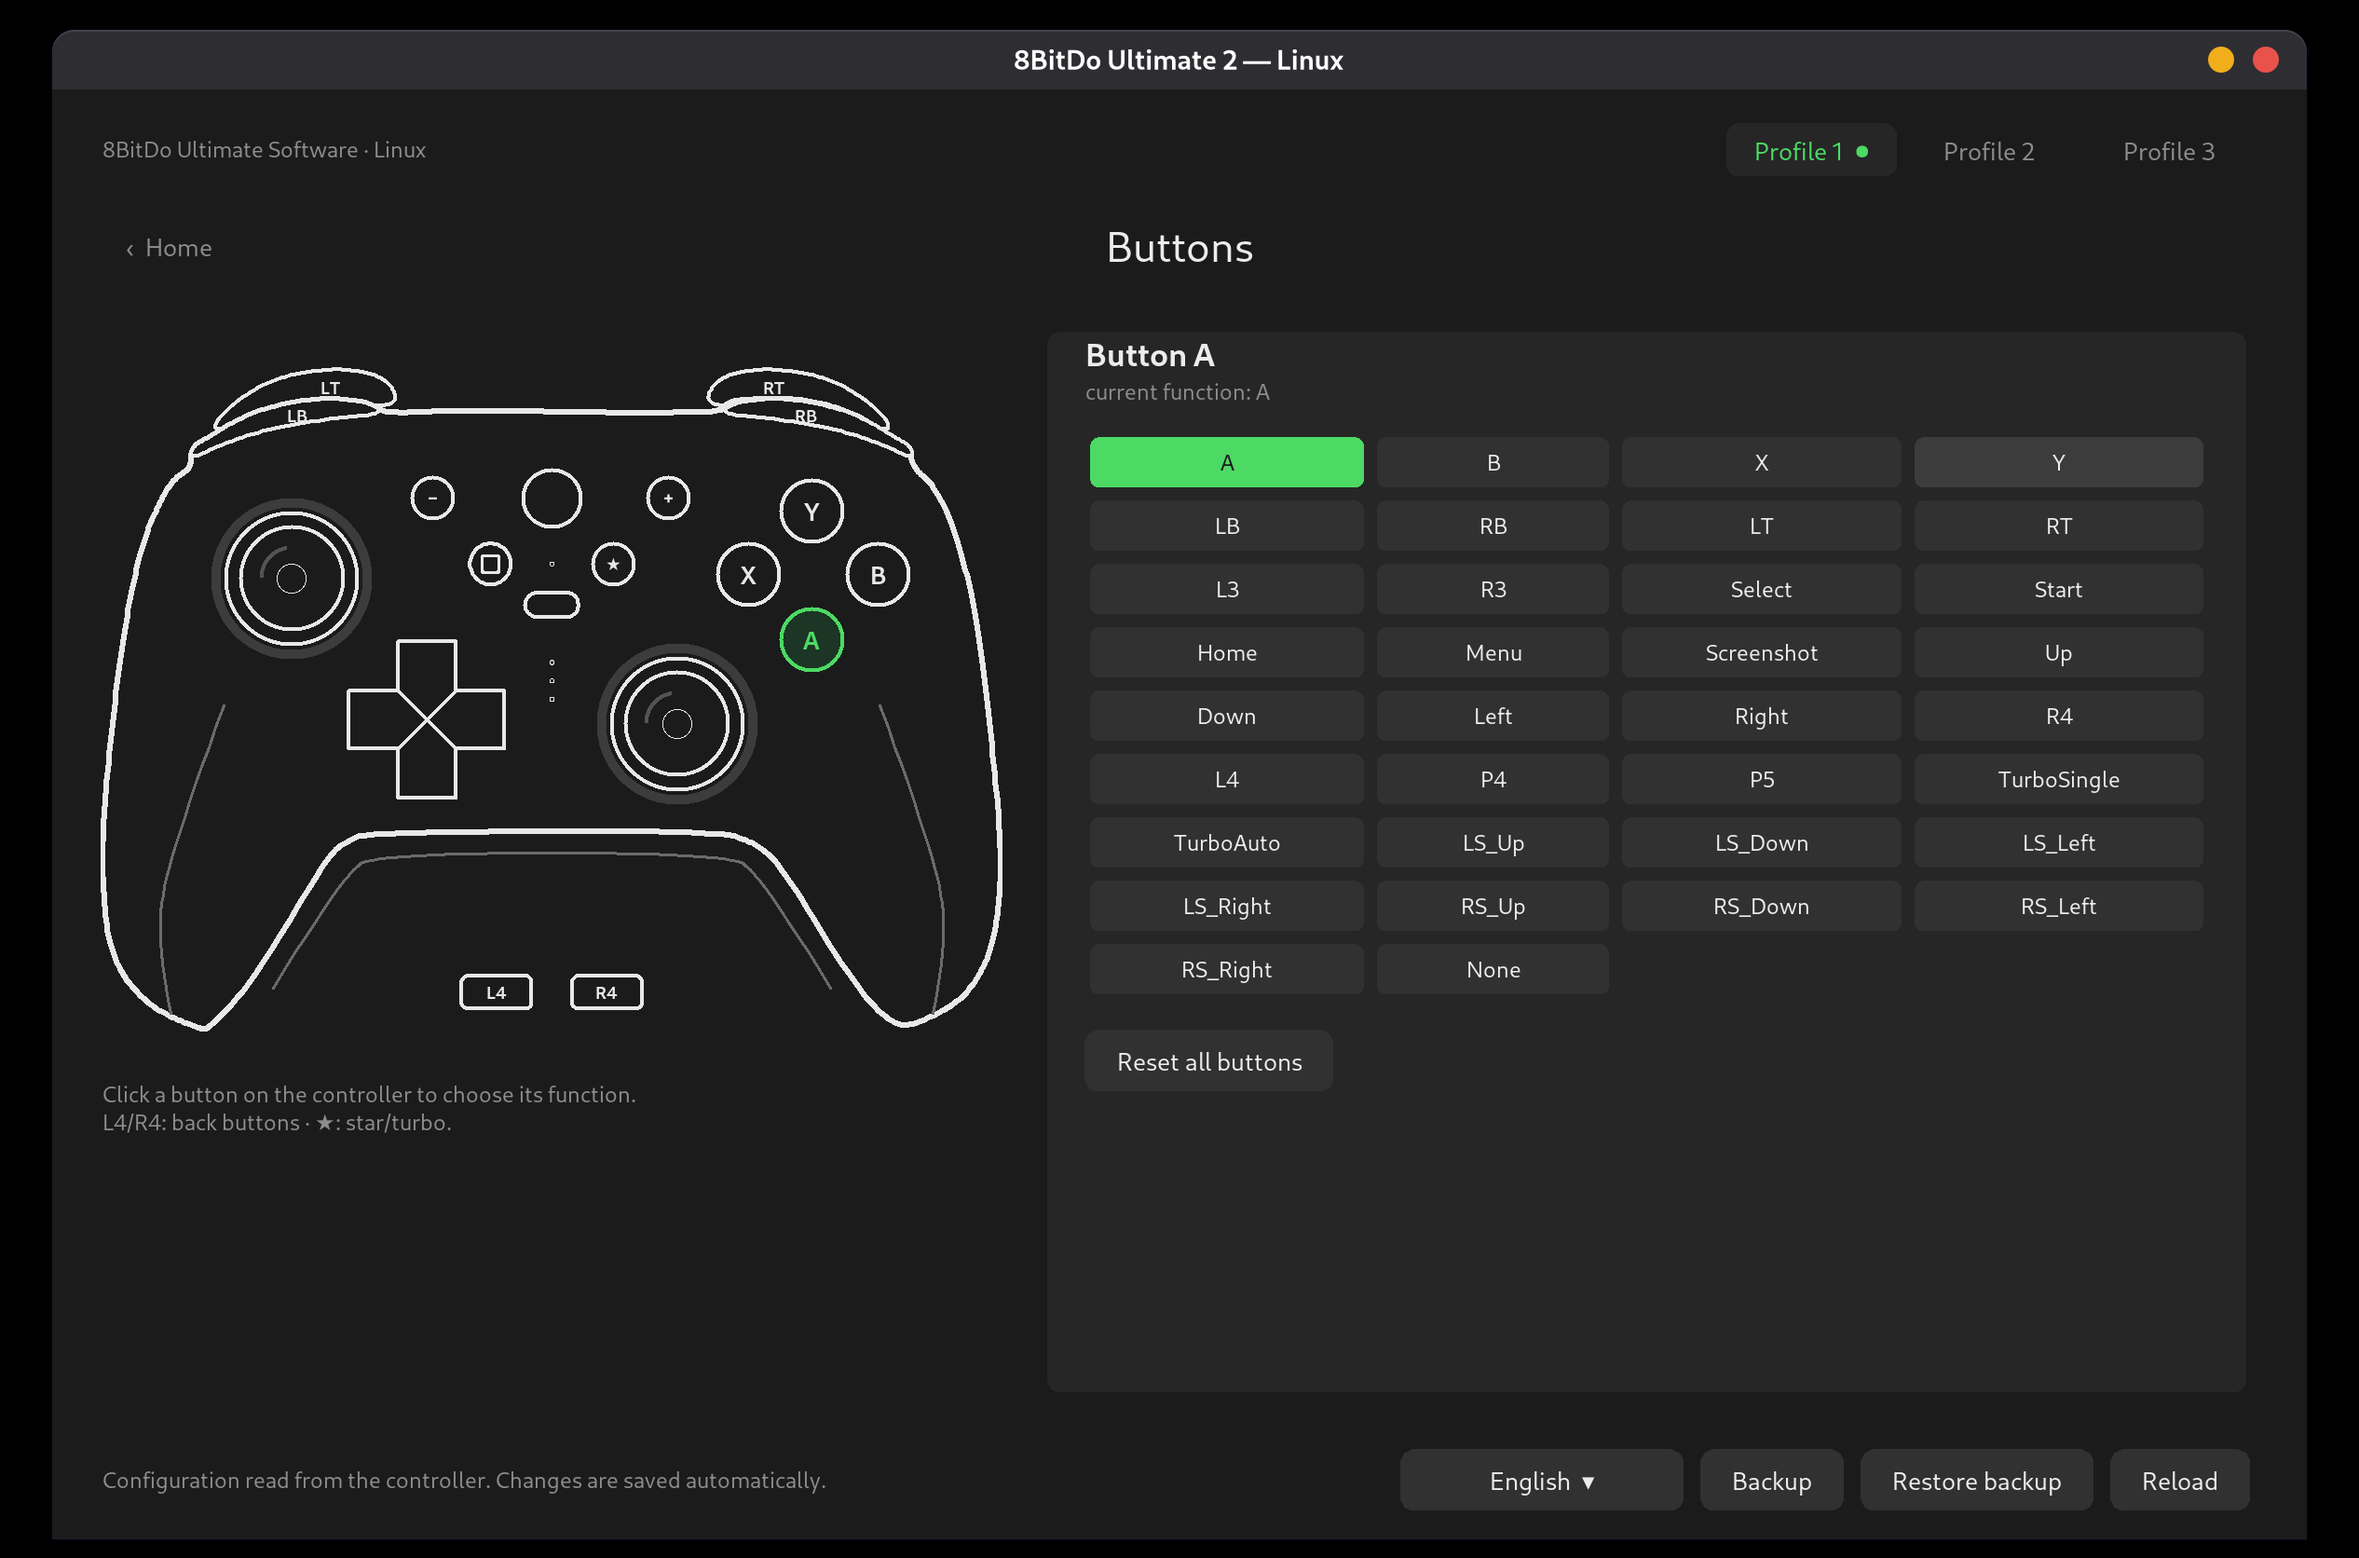
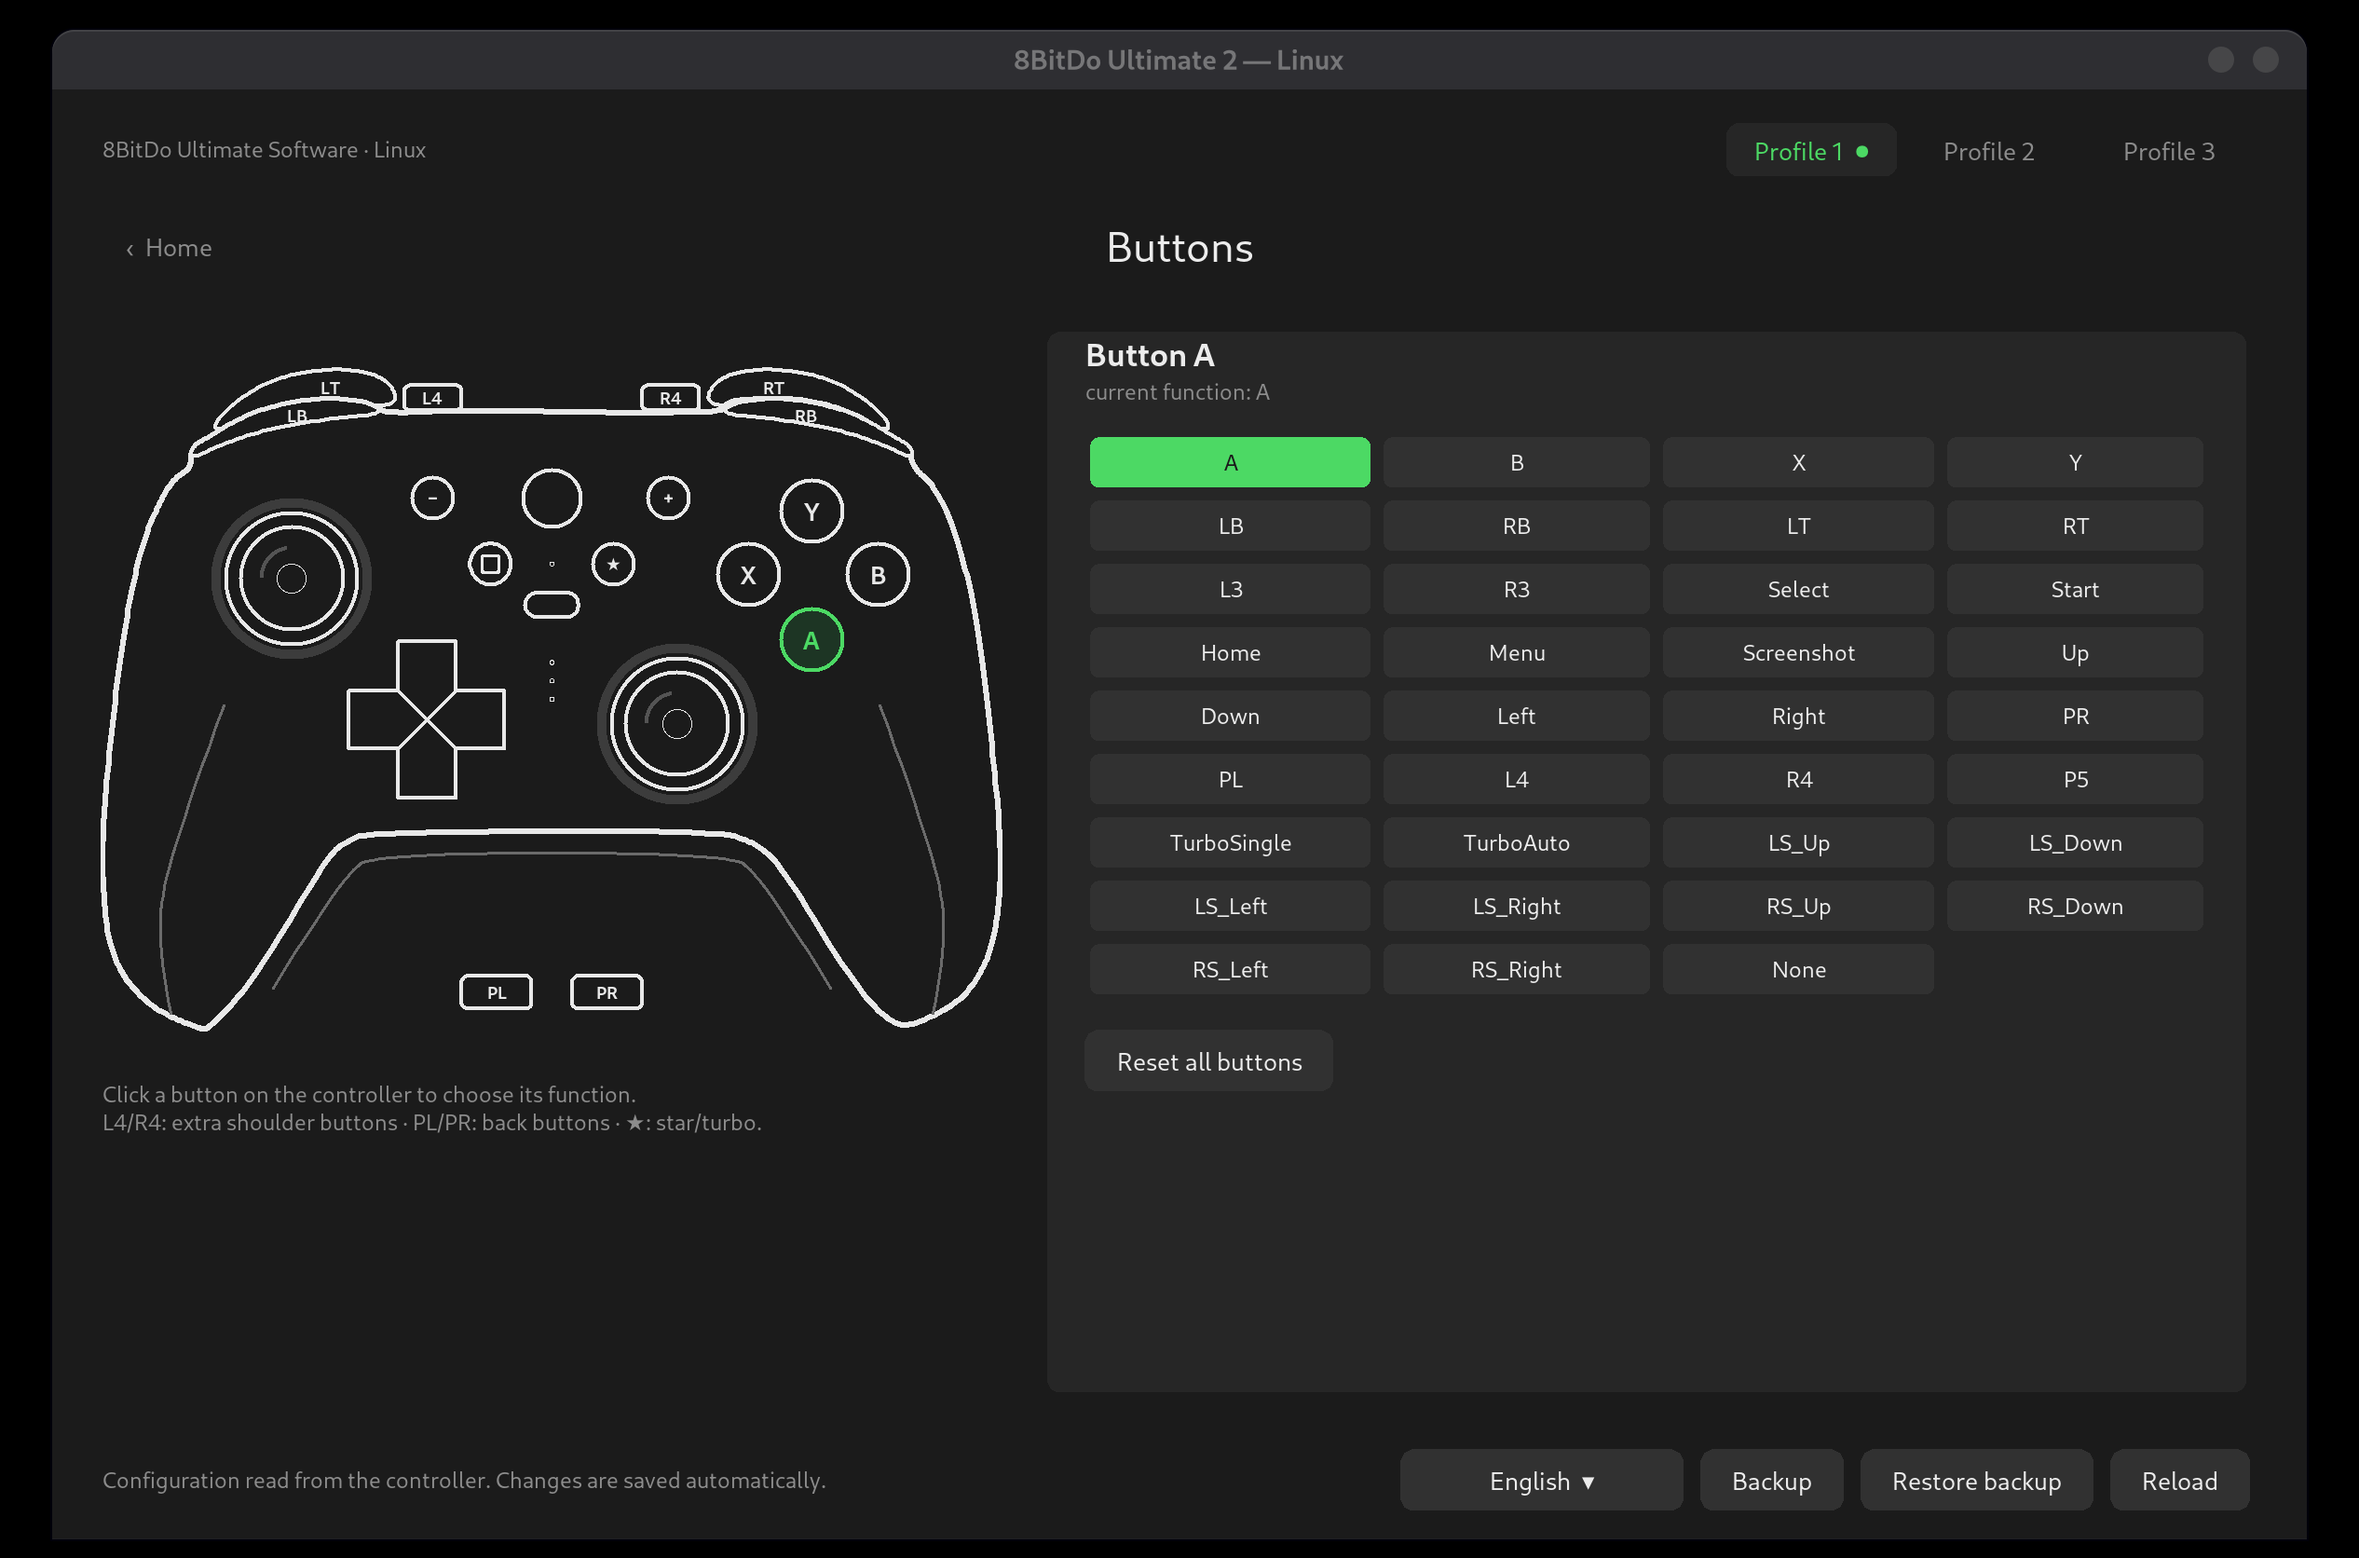
GUI: L4/R4 shoulder buttons and PL/PR back paddles with the app's names
The app maps key[18..21] to P1..P4 and names them PR, PL, L4 and R4
(mapping images and getUltimate2 layout). L4/R4 (P3/P4) are now drawn
beside LT/RT and P3 is a remap target again; P2/P1 are labelled PL/PR.

diff --git a/src/ultimate2/gui/geometry.py b/src/ultimate2/gui/geometry.py
@@ -31,7 +31,8 @@ PARTS = {
     "X": ("circle", (316, 104, 15), "X"), "B": ("circle", (379, 104, 15), "B"),
     "Select": ("circle", (162, 67, 10), "−"), "Start": ("circle", (277, 67, 10), "+"),
     "Home": ("circle", (220, 67, 14), ""), "Star": ("circle", (250, 99, 10), "★"),
-    "P2": ("rrect", (176, 300, 210, 316), "L4"), "P1": ("rrect", (230, 300, 264, 316), "R4"),   # back buttons
+    "P3": ("rrect", (148, 12, 176, 24), "L4"), "P4": ("rrect", (264, 12, 292, 24), "R4"),       # shoulder extras
+    "P2": ("rrect", (176, 300, 210, 316), "PL"), "P1": ("rrect", (230, 300, 264, 316), "PR"),   # back paddles
 }
 # parts of the face that are not configurable, drawn fully rounded (x1, y1, x2, y2): round button, profile button,
 # centre dot, player LEDs; DECOR_SQUARE is the square drawn in the middle of the round button
@@ -40,7 +41,7 @@ DECOR_SQUARE = (186, 95, 194, 103)
 BEHIND = ("LT", "RT")            # parts drawn behind the body
 # button roles pick the skin colours (theme.SKINS); everything else uses "btn"
 ROLES = {**dict.fromkeys(("A", "B", "X", "Y"), "face"), **dict.fromkeys(("Up", "Down", "Left", "Right"), "dpad"),
-         **dict.fromkeys(("L3", "R3"), "stick"), **dict.fromkeys(("LB", "RB"), "shoulder"),
+         **dict.fromkeys(("L3", "R3"), "stick"), **dict.fromkeys(("LB", "RB", "P3", "P4"), "shoulder"),
          **dict.fromkeys(("LT", "RT"), "trigger"), "Home": "home"}
 
 # 24 RGB LEDs: 12 around each stick (index 0 at the top, clockwise; left stick first)
@@ -55,9 +56,9 @@ DETAILS = [((60, 168), (36, 233), (26, 280), (34, 318)), ((380, 168), (404, 233)
            ((84, 306), (118, 250), (136, 240), (304, 240), (322, 250), (356, 306))]
 
 # home-page callouts: label, side, label y, target point on the controller, button (or "sticks") opened on click
-CALLOUTS = [("LT", "l", 12, (96, 12), "LT"), ("LB", "l", 48, (54, 42), "LB"),
+CALLOUTS = [("LT", "l", 10, (96, 12), "LT"), ("L4", "l", 33, (148, 18), "P3"), ("LB", "l", 56, (54, 42), "LB"),
             ("Analógico esquerdo", "l", 106, (61, 106), "sticks"), ("D-pad", "l", 175, (121, 175), "Up"),
-            ("RT", "r", 12, (344, 12), "RT"), ("RB", "r", 48, (386, 42), "RB"),
+            ("RT", "r", 10, (344, 12), "RT"), ("R4", "r", 33, (292, 18), "P4"), ("RB", "r", 56, (386, 42), "RB"),
             ("Botões ABXY", "r", 104, (394, 104), "A"), ("Analógico direito", "r", 177, (313, 177), "sticks"),
-            ("Traseiros L4 / R4", "r", 308, (264, 308), "P1")]
+            ("Traseiros PL / PR", "r", 308, (264, 308), "P1")]
 HOME_OFFSET = 160                # room for the callouts left of the drawing

diff --git a/src/ultimate2/gui/catalog.py b/src/ultimate2/gui/catalog.py
@@ -4,15 +4,16 @@ from .. import config
 SECTIONS = [("Botões", "buttons"), ("Analógicos", "sticks"), ("Gatilhos", "triggers"), ("Vibração", "rumble"),
             ("Giroscópio", "gyro"), ("LEDs", "leds"), ("Perfil", "profile")]
 
-# functions a button can be remapped to, in display order (P3 = L4 does not exist on this controller)
+# functions a button can be remapped to, in display order
 KEY_NAMES = ["A", "B", "X", "Y", "LB", "RB", "LT", "RT", "L3", "R3", "Select", "Start", "Home", "Menu", "Screenshot",
-             "Up", "Down", "Left", "Right", "P1", "P2", "P4", "P5", "TurboSingle", "TurboAuto",
+             "Up", "Down", "Left", "Right", "P1", "P2", "P3", "P4", "P5", "TurboSingle", "TurboAuto",
              "LS_Up", "LS_Down", "LS_Left", "LS_Right", "RS_Up", "RS_Down", "RS_Left", "RS_Right", "None"]
-assert set(KEY_NAMES) == set(config.KEYCODES.values()) - {"P3"}
+assert set(KEY_NAMES) == set(config.KEYCODES.values())
 
-# names printed on the controller: the two back buttons are L4 (P2, left) and R4 (P1, right). The app also has
-# codes P3/P4 for other models; in XInput mode a back button reports the function it is mapped to (LB/RB by default)
-DISPLAY = {"P1": "R4", "P2": "L4"}
+# names printed on the controller (the app's mapping images): P1/P2 are the back paddles PR (right) and PL (left),
+# P3/P4 the small shoulder buttons L4 and R4 beside LB/RB. In XInput mode they have no code of their own: they report
+# the function they are mapped to (none by default)
+DISPLAY = {"P1": "PR", "P2": "PL", "P3": "L4", "P4": "R4"}
 
 # gyro activation buttons (same codes as the remap table)
 GYRO_KEYS = {"LT": 0x4000, "RT": 0x8000, "LB": 0x400, "RB": 0x800, "L3": 0x2, "R3": 0x4}

diff --git a/src/ultimate2/gui/i18n.py b/src/ultimate2/gui/i18n.py
@@ -79,7 +79,8 @@ EN = {
     "Restaurar padrões deste perfil": "Restore this profile's defaults",
     "no Perfil {}": "on Profile {}",
     "Aperte os botões do controle: eles acendem aqui.": "Press the controller's buttons: they light up here.",
-    "Clique num botão do controle para escolher a função dele.\nL4/R4: botões traseiros · ★: estrela/turbo.": "Click a button on the controller to choose its function.\nL4/R4: back buttons · ★: star/turbo.",
+    "Clique num botão do controle para escolher a função dele.\nL4/R4: botões extras do ombro · PL/PR: botões traseiros · ★: estrela/turbo.":
+        "Click a button on the controller to choose its function.\nL4/R4: extra shoulder buttons · PL/PR: back buttons · ★: star/turbo.",
     "Botão de ativação": "Activation button",
     "Prévia ao vivo dos anéis de LED.\nClique num LED do desenho para pintar só ele.": "Live preview of the LED rings.\nClick an LED in the drawing to paint only that one.",
     "Nome": "Name",
@@ -127,5 +128,5 @@ EN = {
     "Roda · fundo": "Wheel · background",
     "Personalizado · todos": "Custom · all",
     "Botões ABXY": "ABXY buttons",
-    "Traseiros L4 / R4": "Back buttons L4 / R4",
+    "Traseiros PL / PR": "Back buttons PL / PR",
 }

diff --git a/src/ultimate2/gui/pages.py b/src/ultimate2/gui/pages.py
@@ -110,7 +110,7 @@ class Pages:
         self.map_canvas.pack(pady=int(20 * s))
         self.map_items = self.draw_controller(self.map_canvas, "map")
         tk.Label(left, text=_("Clique num botão do controle para escolher a função dele.\n"
-                            "L4/R4: botões traseiros · ★: estrela/turbo."),
+                            "L4/R4: botões extras do ombro · PL/PR: botões traseiros · ★: estrela/turbo."),
                  bg=BG, fg=MUTED, font=theme.font(9), justify="left").pack(anchor="w")
         right = self.card(p, side="left")
         self.map_title = tk.Label(right, bg=TILE, fg=FG, font=theme.font(13, "bold"))

diff --git a/tests/gui/test_i18n.py b/tests/gui/test_i18n.py
@@ -11,7 +11,7 @@ from ultimate2.gui import app as app_mod, catalog, geometry, i18n, theme, widget
 from .conftest import click, make_app, texts, walk
 
 GUI = os.path.join(os.path.dirname(os.path.abspath(__file__)), "..", "..", "src", "ultimate2", "gui")
-NEUTRAL = {"LT", "LB", "RT", "RB", "D-pad", "LEDs"}      # constant labels that read the same in English
+NEUTRAL = {"LT", "LB", "RT", "RB", "L4", "R4", "D-pad", "LEDs"}      # constant labels that read the same in English
 
 
 # ---------------------------------------------------------------- detection and lookup

diff --git a/tests/gui/test_theme.py b/tests/gui/test_theme.py
@@ -29,7 +29,7 @@ def test_skins_are_complete():
 
 def test_catalog():
     assert [k for _, k in catalog.SECTIONS][0] == "buttons" and "None" in catalog.KEY_NAMES
-    assert "P3" not in catalog.KEY_NAMES and catalog.DISPLAY == {"P1": "R4", "P2": "L4"}
+    assert "P3" in catalog.KEY_NAMES and catalog.DISPLAY == {"P1": "PR", "P2": "PL", "P3": "L4", "P4": "R4"}
     assert set(catalog.GYRO_KEYS) == {"LT", "RT", "LB", "RB", "L3", "R3"}
     assert {t for _, _, t in catalog.LED_TARGETS} == {2, 3, 4}
 

diff --git a/README.md b/README.md
@@ -21,7 +21,7 @@ for Windows/macOS. It talks to the controller directly over `/dev/hidraw`. You g
 |---|:-:|:-:|
 | Read firmware version, active profile, controller edition | ✓ | ✓ |
 | 3 custom profiles: create, rename, enable/disable | ✓ | ✓ |
-| Button remapping (incl. the L4/R4 back buttons) | ✓ | ✓ |
+| Button remapping (incl. L4/R4 and the PL/PR back buttons) | ✓ | ✓ |
 | Stick dead zones/range, invert axes, swap sticks/d-pad | ✓ | ✓ |
 | Trigger ranges, swap triggers, trigger rumble | ✓ | ✓ |
 | Rumble strength, gyro (6-axis) mapping | ✓ | ✓ |
@@ -112,7 +112,7 @@ controller everything reads `0xffffffff` (erased flash). `u2ctl new-slot` fills 
 | `gamepad_mode` | 0 Switch, 1 Android, 3 Windows/XInput |
 | `slots[n].flag` | `"enabled"` turns the slot into a custom profile |
 | `name` | up to 16 characters |
-| `mapping.<button>` | function of a physical button: `A B X Y LB RB LT RT L3 R3 Select Start Home Menu Screenshot Up Down Left Right P1..P5 TurboSingle TurboAuto LS_Up.. RS_Right None` (`P1` = R4 and `P2` = L4, the back buttons) |
+| `mapping.<button>` | function of a physical button: `A B X Y LB RB LT RT L3 R3 Select Start Home Menu Screenshot Up Down Left Right P1..P5 TurboSingle TurboAuto LS_Up.. RS_Right None` (`P1` = PR and `P2` = PL, the back buttons; `P3` = L4 and `P4` = R4, the small shoulder buttons) |
 | `sticks.left_start / left_end` (`right_*`) | inner dead zone / outer range, 0–128 |
 | `triggers.left_start / left_end` (`right_*`) | LT/RT activation / full-press point, 0–255 |
 | `special.features` | `invert_LS_X invert_LS_Y invert_RS_X invert_RS_Y swap_sticks swap_triggers swap_LS_dpad trigger_rumble` |

diff --git a/docs/PROTOCOL.md b/docs/PROTOCOL.md
@@ -81,10 +81,10 @@ Every section has its own flag; a section is used only when its flag is `0x20200
 
 ### Button order of `mapping` (physical buttons)
 
-`A B X Y LB RB LT RT L3 R3 Select Start Star Home Up Down Left Right P1 P2 P3 P4`. On the Ultimate 2 Wireless the two
-back buttons, printed L4 and R4, are `P2` (left) and `P1` (right); the app also defines `P3`/`P4` for other models.
-In XInput mode the back buttons have no code of their own: they report the function they are mapped to (LB/RB by
-default), which is why a press of L4 shows up as LB.
+`A B X Y LB RB LT RT L3 R3 Select Start Star Home Up Down Left Right P1 P2 P3 P4`. On the Ultimate 2 Wireless (names from
+the app's mapping images and its `getUltimate2` layout): `P1` = PR and `P2` = PL, the back paddles (right and left);
+`P3` = L4 and `P4` = R4, the small shoulder buttons beside LB/RB. A new profile maps all four to `None`. In XInput mode
+they have no code of their own: they report the function they are mapped to.
 
 ### Key codes (function assigned to a button)
 
@@ -110,4 +110,4 @@ triggers, `0x100` swap LS/d-pad, `0x8000` trigger rumble. Other bits are not ful
 ## Live input
 
 With `xpad`, `/dev/input/jsN` reports 11 buttons (`A B X Y LB RB Select Start Home L3 R3`) and 8 axes (LX, LY, LT, RX,
-RY, RT, d-pad X, d-pad Y). Star, R4 and the back buttons are not reported as separate inputs.
+RY, RT, d-pad X, d-pad Y). Star, L4/R4 and the PL/PR back buttons are not reported as separate inputs.

diff --git a/CHANGELOG.md b/CHANGELOG.md
@@ -10,7 +10,8 @@ This project follows [Semantic Versioning](https://semver.org/).
   changed with the selector next to Backup or on the Profile page (saved in `~/.config/ultimate2/gui.json`). The command line is unchanged.
 * The controller drawing is shaded like a moulded part (rounded, lit edges and raised buttons). The pink edition skin
   uses colours taken from a photo of the controller.
-* The back buttons are labelled L4/R4, as printed on the controller (they were shown as PL/PR).
+* The four extra buttons use the official names: L4/R4 (small shoulder buttons, `P3`/`P4`) are drawn beside LT/RT and
+  can be remapped (L4 was missing), and the back paddles (`P2`/`P1`) are labelled PL/PR again.
 * New default drawing in outline style (light strokes, no fills), like the controller diagrams. Editions without a
   skin of their own use it.
 * The drawing style can be chosen on the Profile page (outline, automatic from the edition, black or pink), for
